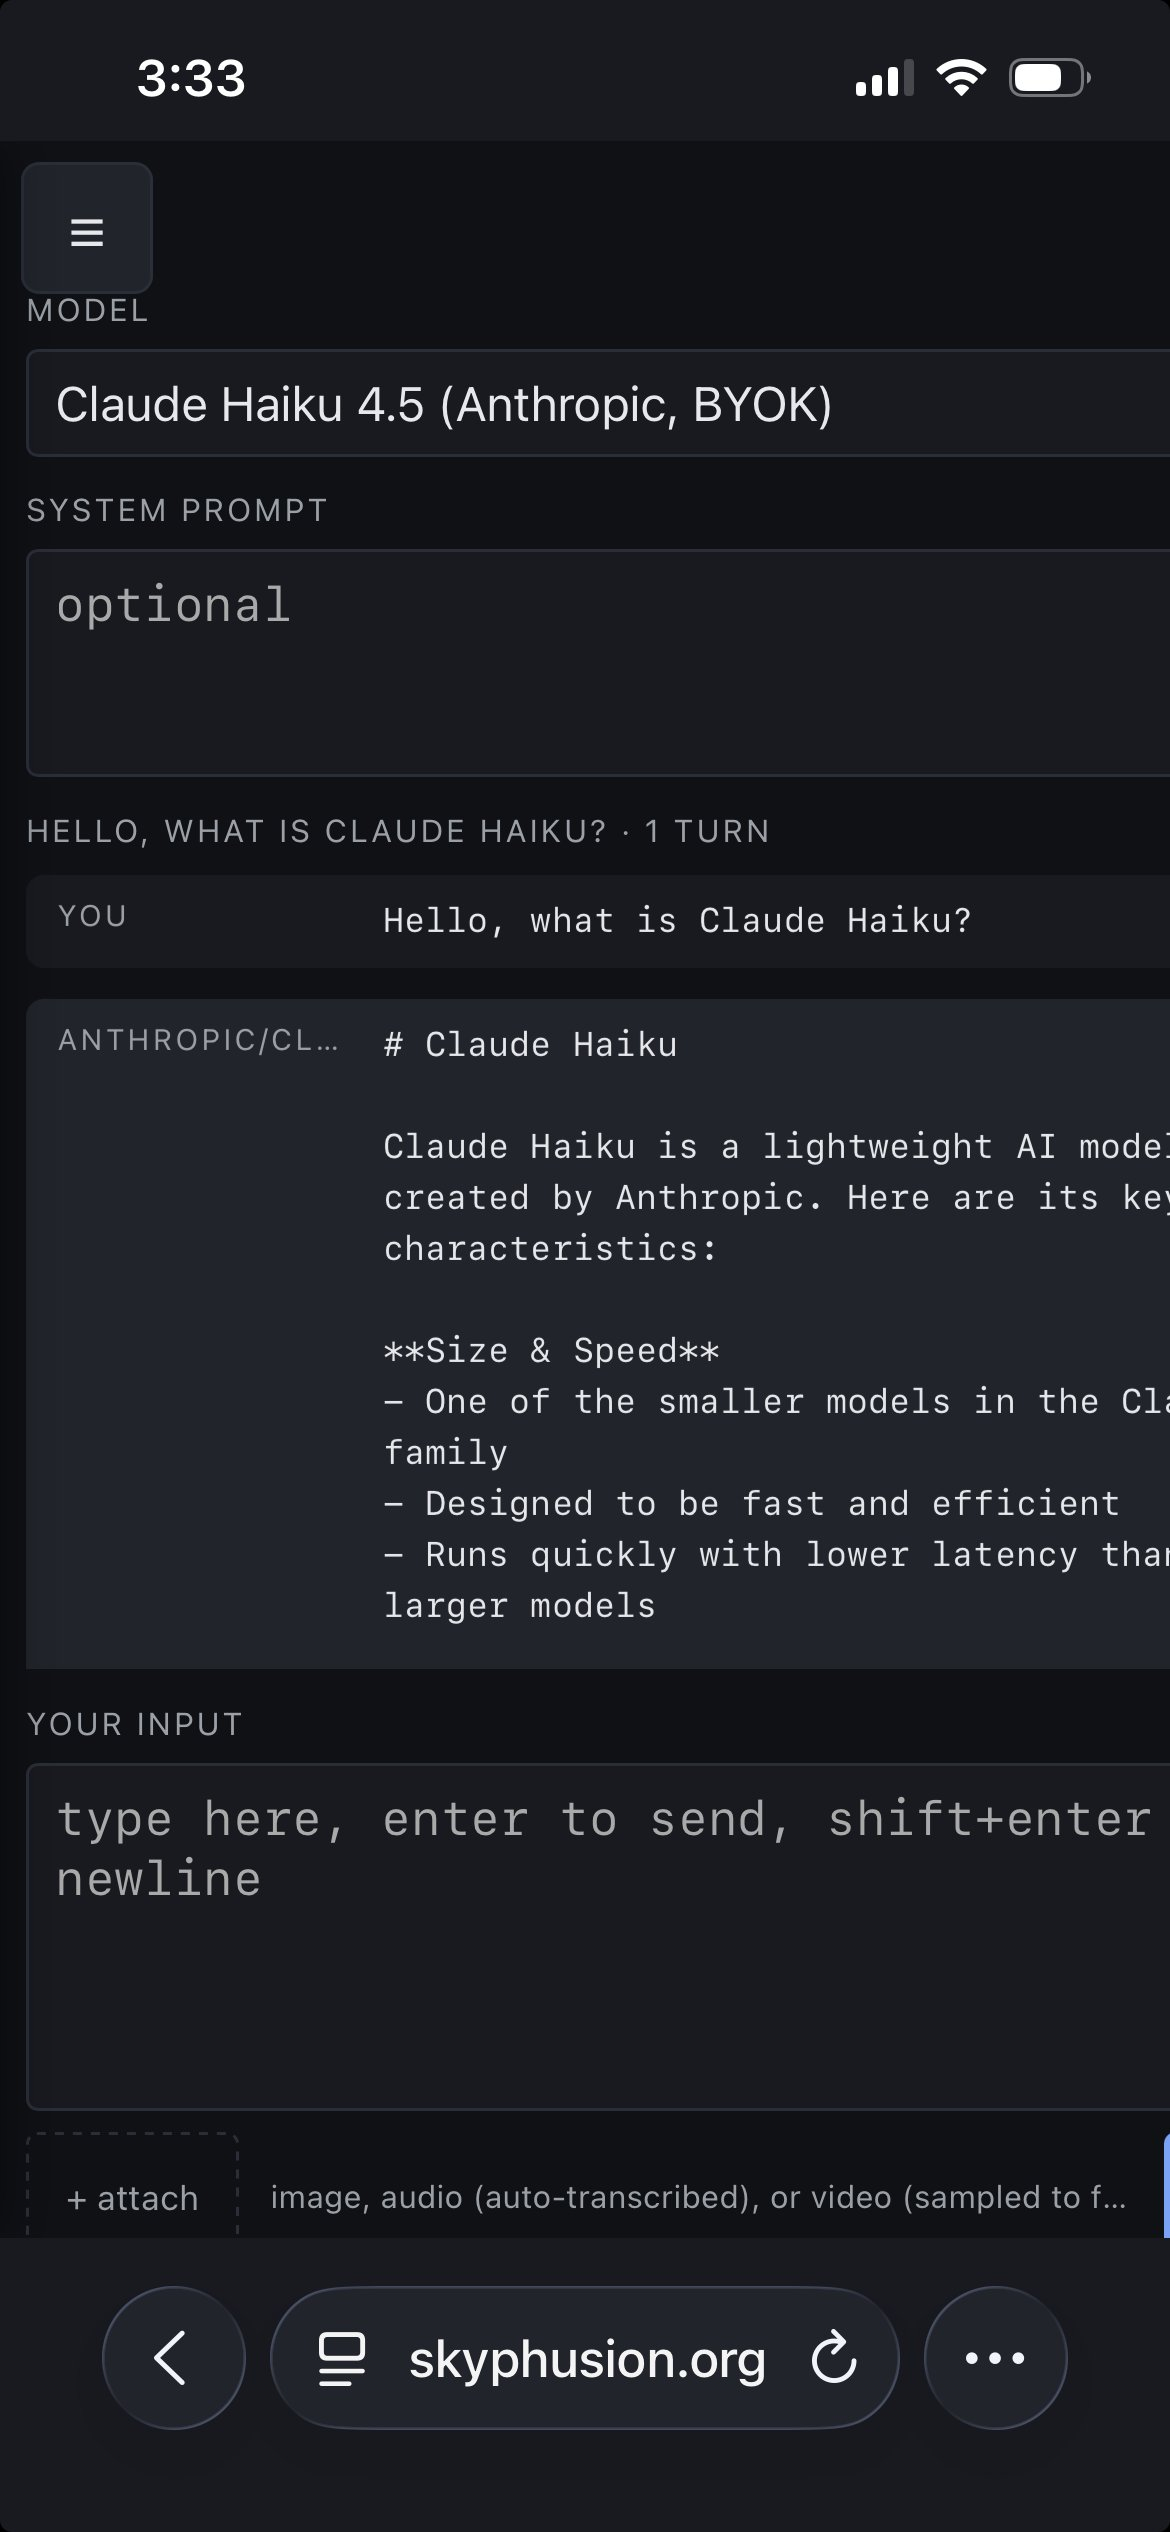
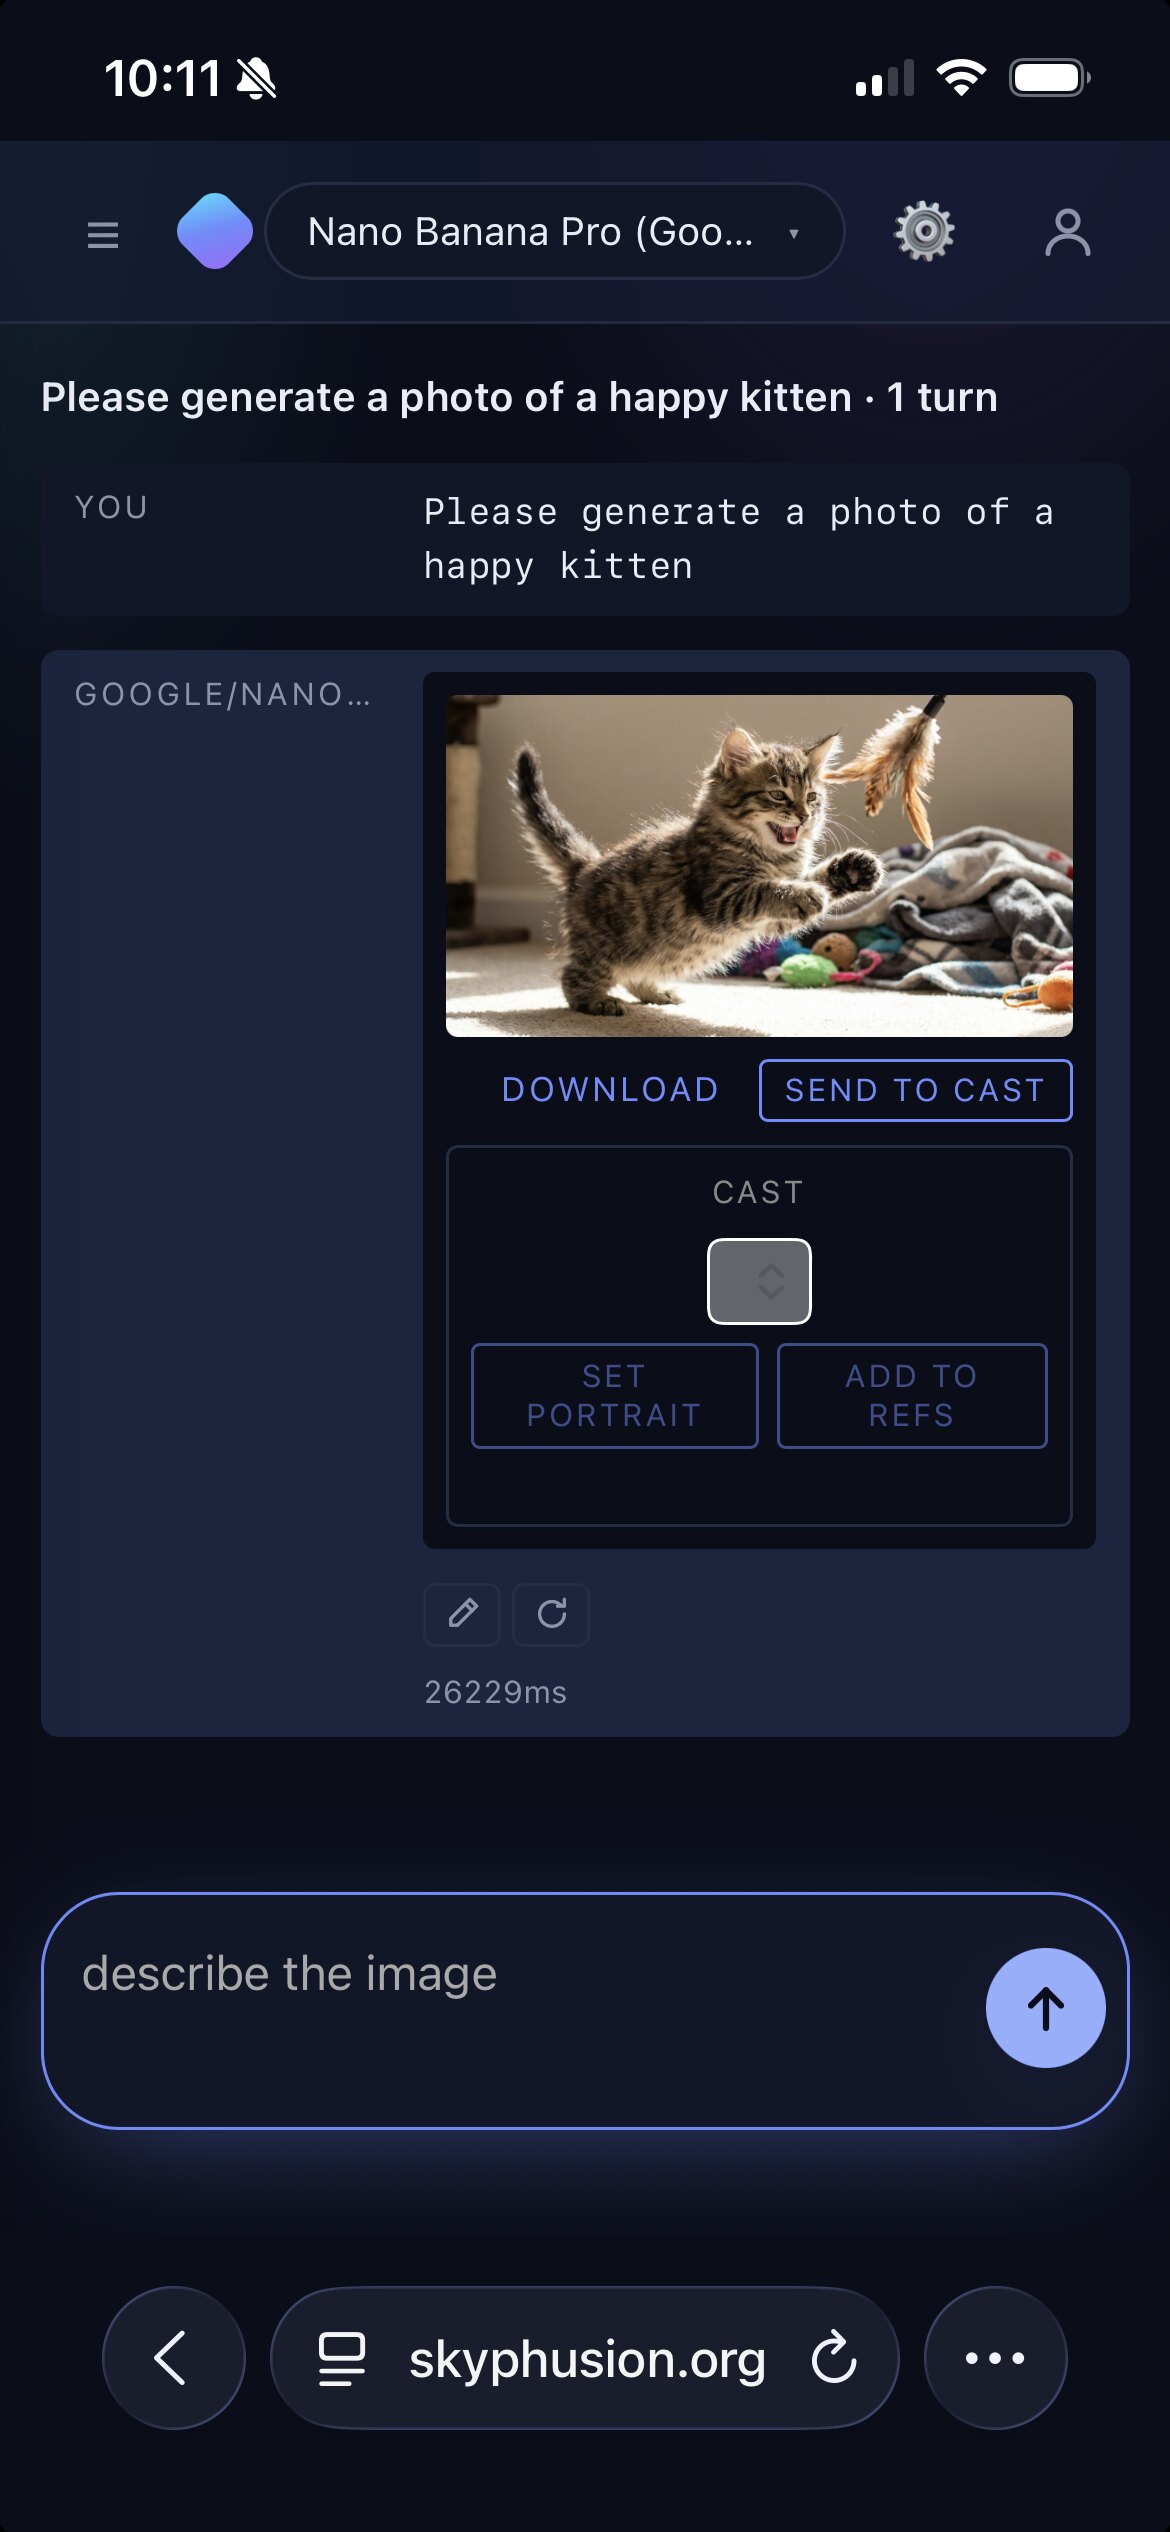
docs: push voice chat as a headline feature + refresh screenshots/UI copy
- Lead the README with the voice-chat selling point (talk to any of the 35 chat
  models and hear it reply, hands-free, on Cloudflare) via a callout under the
  hero, the intro line, a Features entry, and a dedicated "Voice chat" section
  (Flux STT in the SttSession DO + Aura-2 TTS loop, /api/stt/stream + /api/tts).
- New screenshots (the focus-mode redesign; images generated with Nano Banana
  Pro), replacing the old FLUX-1/Haiku shots.
- Accuracy: 33 -> 35 chat models, added the `voice` model type + the two voice
  routes, refreshed the UI feature copy for the redesign, 6 -> 7 modalities.

diff --git a/README.md b/README.md
@@ -3,18 +3,21 @@
 [![License: AGPL v3](https://img.shields.io/badge/License-AGPL_v3-blue.svg)](LICENSE)
 [![Typecheck](https://github.com/SkyPhusion/skyphusion-llm-public/actions/workflows/typecheck.yml/badge.svg)](https://github.com/SkyPhusion/skyphusion-llm-public/actions/workflows/typecheck.yml)
 
-A multimodal AI playground deployed as a single Cloudflare Worker. 33 chat models across 5 providers, image / TTS / STT / video / music generation, cross-model artifact reuse within a conversation (v0.21.7), RAG over files of any type (v0.23.0), projects that scope a knowledge base and system prompt, Discord chat-log ingestion, opt-in web search via Tavily and Wikipedia, SSE streaming on supported chat models, and multi-turn conversations. One web UI behind Cloudflare Access, per-user history, R2 for all binary artifacts.
+A multimodal AI playground deployed as a single Cloudflare Worker. 35 chat models across 5 providers, **hands-free voice chat** (talk to any model and hear it reply), image / TTS / STT / video / music generation, cross-model artifact reuse within a conversation (v0.21.7), RAG over files of any type (v0.23.0), projects that scope a knowledge base and system prompt, Discord chat-log ingestion, opt-in web search via Tavily and Wikipedia, SSE streaming on supported chat models, and multi-turn conversations. One web UI behind Cloudflare Access, per-user history, R2 for all binary artifacts.
 
 <p align="center">
-  <img src="docs/screenshot-desktop.jpg" alt="Desktop UI: image generation with FLUX-1 schnell" width="800"><br><br>
-  <img src="docs/screenshot-mobile.jpg" alt="Mobile UI: Claude Haiku 4.5 chat" width="280">
+  <img src="docs/screenshot-desktop.jpg" alt="Desktop UI: image generation with Nano Banana Pro" width="800"><br><br>
+  <img src="docs/screenshot-mobile.jpg" alt="Mobile UI: image generation with Nano Banana Pro" width="280">
 </p>
+
+> ### 🎙️ Talk to the models, out loud
+> Pick **any of the 35 chat models**, tap the mic, and have a real spoken conversation. Your speech is transcribed by Deepgram Flux, sent to the model through the normal chat path, and the reply is **spoken back** with Aura-2 TTS, hands-free, end to end on Cloudflare, no third-party STT/TTS services. Works with every model on the list and saves to history like any other chat. See [Voice chat](#voice-chat).
 
 ## What this is
 
 A working template for the Cloudflare AI stack. One Worker, no framework, no build step beyond TypeScript. The interesting parts are the patterns, not the model count:
 
-- **Unified `env.AI.run()` binding** drives every modality through one call surface: chat, vision input, image gen, TTS, STT, video gen (Unified Billing), and music gen.
+- **Unified `env.AI.run()` binding** drives every modality through one call surface: chat, vision input, image gen, TTS, STT, conversational STT + voice chat (Flux over a WebSocket), video gen (Unified Billing), and music gen.
 - **Per-provider dispatch helpers** for Anthropic Claude (Unified Billing), xAI Grok (BYOK), and Gemini, each transforming our internal `messages` shape into the provider's format. OpenAI and Workers AI ride the `env.AI.run` binding directly.
 - **SSE streaming** (v0.13.0+) for chat models on all five providers: Anthropic native SSE, Workers AI OpenAI-compatible SSE, xAI OpenAI-compatible SSE, OpenAI proxied (binding-based, v0.21.1), and Gemini (binding-based, v0.21.4).
 - **AI Gateway** wraps every call for observability, caching, and rate-limiting.
@@ -22,11 +25,11 @@ A working template for the Cloudflare AI stack. One Worker, no framework, no bui
 - **Cloudflare Workflows** owns long-running Unified Billing video and music generation (30s to 3min jobs). The `LongRunWorkflow` class holds the blocking `env.AI.run` call alive across step boundaries that `ctx.waitUntil` cannot.
 - **Cloudflare Access** gates the entire worker URL. The worker reads `Cf-Access-Authenticated-User-Email` to scope history per user; R2 objects carry `customMetadata.user_email` so cross-user access is impossible even if a UUID is guessed.
 - **Client-side video keyframe extraction** sends 8 evenly-spaced frames to vision-capable chat models instead of uploading the full video file.
-- **Collapsible model picker** (v0.15.0) groups the ~50 catalog entries across 6 modalities with capability badges (vision, stream) inline.
+- **Searchable model picker** (v0.111.0) groups the ~50 catalog entries across 7 modalities with capability badges (vision, stream) inline; type to filter by name.
 
 ## Features
 
-**Chat (33 models across 5 providers; all stream-capable):**
+**Chat (35 models across 5 providers; all stream-capable):**
 - Workers AI: Llama 4 Scout, Llama 3.x family, Qwen3 30B / QwQ 32B / Qwen2.5 Coder 32B, DeepSeek R1, Mistral Small 3.1, Gemma 4 26B / Gemma 3 12B, Granite 4 Micro, Nemotron 3 120B, GLM-4.7 Flash, Hermes 2 Pro, GPT-OSS 120B / 20B, Kimi K2.6
 - Anthropic (Unified Billing): Opus 4.8, Opus 4.7, Opus 4.6, Sonnet 4.6, Haiku 4.5 (all streaming)
 - xAI BYOK: Grok 4.3, Grok 4.20 (Multi-Agent and Reasoning), Grok Build 0.1 (all streaming as of v0.16.0)
@@ -41,7 +44,9 @@ A working template for the Cloudflare AI stack. One Worker, no framework, no bui
 
 **Text-to-speech:** Aura-2 EN / ES, MeloTTS.
 
-**Speech-to-text:** Whisper Large v3 Turbo / Whisper / Whisper Tiny EN.
+**Speech-to-text:** Whisper Large v3 Turbo / Whisper / Whisper Tiny EN (one-shot transcription), plus **Deepgram Flux** conversational/streaming STT with live turn detection over a WebSocket (v0.108.0).
+
+**Voice chat: talk to any model, hear it reply (v0.118.0):** a mic button on any chat model starts a hands-free loop, your speech is transcribed by Flux, each finished turn is sent to the selected model through the normal chat path, and the reply is spoken back via Aura-2 TTS. Works with all 35 chat models, the conversation saves to history like any other, and the whole loop runs on Cloudflare (no third-party STT/TTS). See [Voice chat](#voice-chat).
 
 **RAG (Vectorize):** upload files of any type via the sidebar (v0.23.0), or a `.zip` to import many files at once (v0.25.0, each inner file becomes its own document). PDFs get per-page extraction and spreadsheets (`.xlsx`/`.xls`) per-sheet; every other file is read as UTF-8 text (CSV, JSON, HTML, source code, logs, etc.). Binary formats that don't decode to text (e.g. `.docx`, images) are rejected. The worker chunks, embeds via BGE-base, and stores vectors in Vectorize plus text in D1. Toggle "use my docs" per turn to fold the top-5 nearest chunks into the system prompt before the LLM call.
 
@@ -55,7 +60,7 @@ A working template for the Cloudflare AI stack. One Worker, no framework, no bui
 
 **Multi-turn conversations:** `conversation_id` plus `turn_index` on chat rows. Continuing a conversation pulls prior turns and assembles a full message history for the next call. Mixed-model conversations allowed (start with Llama, continue with Claude). Text-only on continuation; prior images, audio, and video are not re-sent.
 
-**UI:** collapsible model picker with per-modality groups and capability badges (v0.15.0), capability-aware mode switching (vision-only attachment types; image-mode UI re-skin to "negative prompt"; TTS / STT / video / music hide irrelevant inputs), FLUX.2 reference image attach UI (v0.16.0), per-turn web-search toggle (v0.17.0), per-user replay-able history with attachments and generated artifacts, Enter to send / Shift+Enter for newline.
+**UI (focus-mode redesign, v0.110.0+):** a single centered conversation column with a floating composer; the sidebar (searchable history, projects, documents) is a slide-in overlay; a searchable model picker (type to filter, v0.111.0); a ⚙ popover for the system prompt + retrieval toggles and an account menu in the top bar; a paperclip attach button and a voice-chat mic. Capability-aware mode switching (vision-only attachment types; image-mode re-skins to "negative prompt"; TTS / STT / video / music / voice hide irrelevant inputs), FLUX.2 reference-image attach UI (v0.16.0), per-turn web-search toggle (v0.17.0), per-user replay-able history with attachments and generated artifacts, Enter to send / Shift+Enter for newline. Mobile-optimized (safe-area insets, touch targets, no iOS zoom).
 
 **Auth:** Cloudflare Access on the worker URL. Per-user history and R2 ownership checks via `Cf-Access-Authenticated-User-Email`. Free up to 50 seats on Zero Trust.
 
@@ -215,6 +220,8 @@ The worker is the only public surface. R2 is private; the worker streams objects
 | GET    | `/api/models`             | List available models with capability flags (`streaming`, `vision`, `group`) |
 | POST   | `/api/chat`               | Run a model. Dispatches by model type. |
 | POST   | `/api/chat/stream`        | SSE streaming variant for chat models flagged `streaming: true` |
+| GET/WS | `/api/stt/stream`         | WebSocket for conversational STT (Deepgram Flux via the `SttSession` DO); persists the transcript to history on close |
+| POST   | `/api/tts`                | Synthesize text to speech (Aura-2) and stream the audio back (no history row); used by the voice-chat loop |
 | GET    | `/api/conversations`      | List the caller's conversations (grouped by `conversation_id`, includes each conversation's `project_id`) |
 | GET    | `/api/conversations/:id`  | Full transcript for a conversation |
 | DELETE | `/api/conversations/:id`  | Cascade delete of all turns plus R2 artifacts |
@@ -243,6 +250,7 @@ The worker is the only public surface. R2 is private; the worker streams objects
 - `image`: text-to-image generation. The system prompt field becomes the negative prompt. FLUX.2 models additionally accept up to 4 reference images (v0.16.0). Output is a JPEG/PNG in R2; `openai/gpt-image-1.5` outputs a transparent RGBA PNG when `OPENAI_API_KEY` is set (v0.22.1), opaque otherwise.
 - `tts`: text-to-speech. Output is audio (MP3 or model-default container) in R2.
 - `stt`: speech-to-text transcription. Input audio, output text.
+- `voice`: conversational/streaming STT (Deepgram Flux). A live WebSocket session, not a request/response turn; powers the standalone `/stt.html` panel and the [voice chat](#voice-chat) loop. Special-cased on both routing and UI (the chat path rejects it with a pointer to `/api/stt/stream`).
 - `video`: text-to-video generation. Long-running (30s-3min); see "Long-running jobs" below.
 - `music`: text-to-music generation. Long-running (30s-90s); see "Long-running jobs" below.
 
@@ -442,6 +450,43 @@ Three Whisper variants are exposed:
 - `@cf/openai/whisper-tiny-en` (fast, English-only, beta)
 
 Whisper is hosted on Workers AI (no Unified Billing needed).
+
+## Voice chat
+
+Talk to any of the 35 chat models and hear it talk back, hands-free. This is one
+of the headline features: a full **speech in, speech out** loop over any text
+model on the list, running entirely on Cloudflare with no third-party STT/TTS.
+
+**Use it:** select a chat model, click the mic button in the composer (it only
+appears for chat models), and start talking. When you finish a thought, the model
+answers in the transcript and the answer is spoken aloud. Then it resumes
+listening. The mic pulses while live; click it again to stop. A status line shows
+the state (listening / thinking / speaking). The conversation is saved to history
+exactly like a typed chat, so you can scroll back or continue it by text later.
+
+**How it works:**
+- **STT (Deepgram Flux).** `@cf/deepgram/flux` is a WebSocket-only conversational
+  STT model with built-in turn detection. The browser opens a WebSocket to
+  `/api/stt/stream`, which the worker forwards to a per-session **`SttSession`
+  Durable Object**. The DO opens the upstream Flux socket via
+  `env.AI.run("@cf/deepgram/flux", { ... }, { websocket: true })` and bridges
+  audio up (linear16 PCM @ 16 kHz) and turn events down. It accepts the browser
+  socket with the **Hibernation API** and persists the final transcript to D1 on
+  close (a plain Worker has no reliable post-101 hook to write history).
+- **The loop.** On each `EndOfTurn` event, the client sends the utterance to the
+  selected chat model through the normal send path (full conversation context,
+  RAG, projects, web search all apply), then POSTs the reply to **`/api/tts`**,
+  which synthesizes it with **Aura-2** and streams the audio straight back (no
+  history row, since the loop speaks every reply). The mic is muted while the
+  model is thinking/speaking so it does not transcribe its own voice.
+
+**No setup:** both Flux and Aura-2 are Workers AI models on the `env.AI` binding,
+so voice chat needs no extra keys or services beyond the base deploy.
+
+A standalone transcription-only panel lives at `/stt.html` (same Flux engine,
+saves transcripts to history). Conversational/voice models are surfaced as a
+`type: "voice"` catalog entry, special-cased on both the routing and UI sides
+(they are a live session, not a request/response turn).
 
 ## Music generation (MiniMax Music 2.6)
 